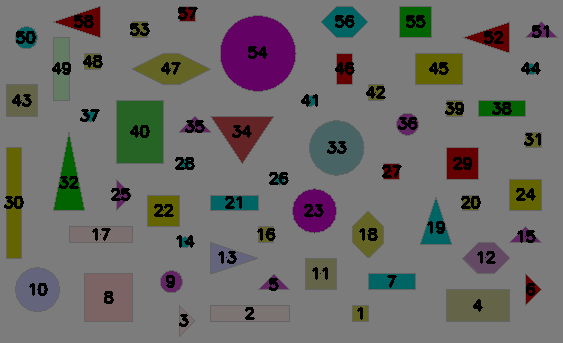
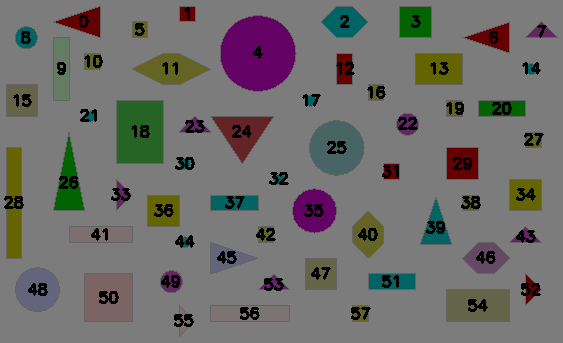
Finished exercise 1.3

diff --git a/src/measurements.py b/src/measurements.py
@@ -37,31 +37,35 @@ def get_measurements(img, contours):
     """
     It returns measurements related to the image (centroid, perimeter and
     area), with numbers identifying the respective objects in the output
-    image
+    image, and also the area of the objects
 
     Keyword arguments:
     img -- the image itself (numpy array)
     contours -- the contour array of the objects within the image
     """
-    #output_img = np.zeros_like(img, dtype=np.uint8)
-    hsvImg = cv2.cvtColor(img.copy(),cv2.COLOR_BGR2HSV)
-    hsvImg[...,2] = np.multiply(hsvImg[...,2], 1.1).astype(np.uint8)
+    contours = np.flip(contours)
+    areas = []
 
-    output_img = cv2.cvtColor(hsvImg, cv2.COLOR_HSV2BGR) + 100#np.multiply(img.copy(), 1.2).astype(np.uint8)#np.add(0.8*img.copy(), 10)
-    print(output_img[193][147])
+    # modify image colors to make the labels more readable
+    hsv_img = cv2.cvtColor(img.copy(), cv2.COLOR_BGR2HSV)
+    hsv_img[..., 2] = np.multiply(hsv_img[..., 2], 1.1).astype(np.uint8)
+    output_img = cv2.cvtColor(hsv_img, cv2.COLOR_HSV2BGR) + 100
 
-    idx = 1
+    idx = 0
     for contour in contours:
+        # calculate required measures
         perimeter = cv2.arcLength(contour, True)
-        #print("Perimeter:", perimeter)
         area = cv2.contourArea(contour)
-        print("Area:", area)
         moments = cv2.moments(contour)
         c_x = int(moments['m10']/moments['m00'])
         c_y = int(moments['m01']/moments['m00'])
-        output_img[c_y, c_x] = [0, 0, 0]
+        areas.append(area)
+
+        # label image
         offset_x = 10 if idx > 9 else 5
         cv2.putText(output_img, str(idx), (c_x - offset_x, c_y + 5), font, 0.5, (0, 0, 0), 2)
+
+        print("Região %2d: área: %6.1f perímetro: %9.5f " % (idx, area, perimeter))
         idx += 1
 
-    return output_img
+    return output_img, areas

diff --git a/src/main.py b/src/main.py
@@ -84,7 +84,7 @@ def main():
         display_image(contours_v, "Contours " + image_name)
         save_image(image_name + "-contours", contours_v)
 
-        labeled_img = get_measurements(image, contours[1:])
+        labeled_img, areas = get_measurements(image, contours[1:])
         display_image(labeled_img, "Labeled " + image_name)
         save_image(image_name + "-labeled", labeled_img)
 
